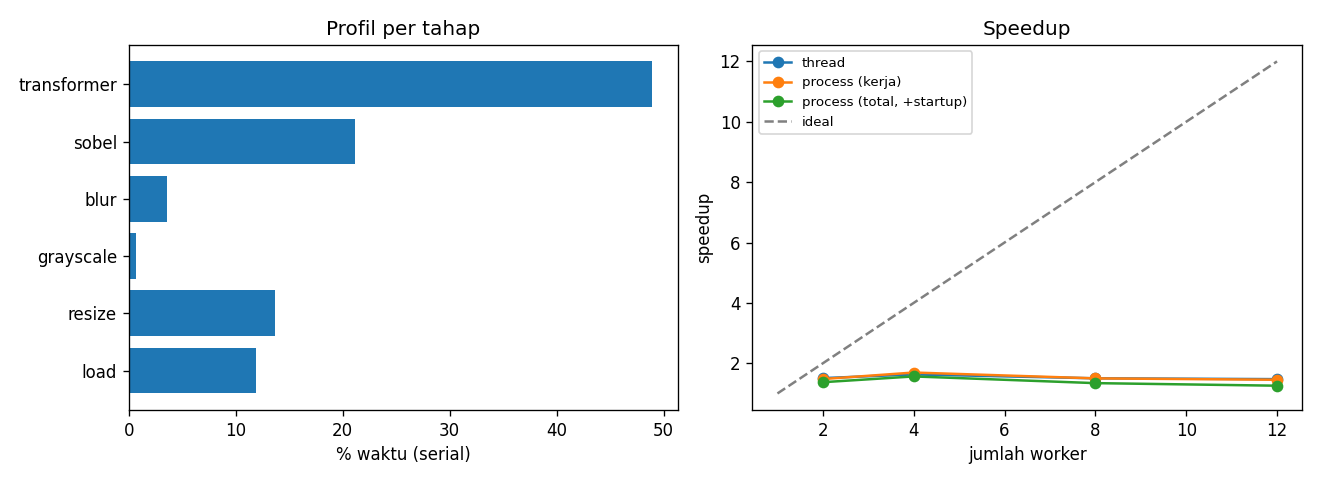
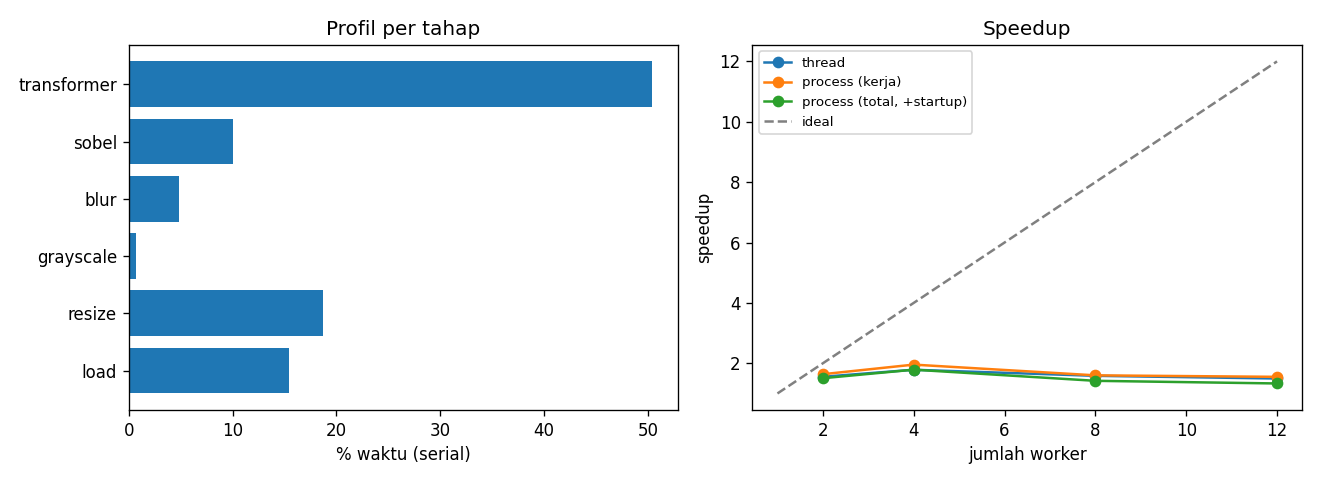
laporan

diff --git a/project.py b/project.py
@@ -40,11 +40,26 @@ def load_image(task):
     return Image.open(src).convert("RGB")
 
 # ======================= TAHAP PIPELINE =======================
-def sobel(gray):
+def sobel_lama(gray):
+    """Versi awal: banyak array sementara -> berat di memori (disimpan untuk perbandingan)."""
     a = gray.astype(np.float32)
     gx = (a[:-2, 2:] + 2*a[1:-1, 2:] + a[2:, 2:]) - (a[:-2, :-2] + 2*a[1:-1, :-2] + a[2:, :-2])
     gy = (a[2:, :-2] + 2*a[2:, 1:-1] + a[2:, 2:]) - (a[:-2, :-2] + 2*a[:-2, 1:-1] + a[:-2, 2:])
     return np.hypot(gx, gy)
+
+def sobel(gray):
+    """Versi hemat memori: bentuk separable + operasi in-place.
+    Sobel-x = haluskan vertikal [1,2,1] lalu selisih horizontal [1,0,-1]
+    Sobel-y = selisih vertikal  [1,0,-1] lalu haluskan horizontal [1,2,1]
+    Hasil sama dengan sobel_lama, tetapi hanya ~4 array sementara (bukan ~20)."""
+    a = gray.astype(np.float32)
+    mid = a[1:-1]
+    s = a[:-2] + a[2:]; s += mid; s += mid          # haluskan vertikal
+    d = a[2:] - a[:-2]                              # selisih vertikal
+    gx = s[:, 2:] - s[:, :-2]
+    gy = d[:, :-2] + d[:, 2:]; gy += d[:, 1:-1]; gy += d[:, 1:-1]
+    gx *= gx; gy *= gy; gx += gy
+    return np.sqrt(gx, out=gx)
 
 D, HEADS, PATCH, LAYERS = 128, 4, 8, 2
 _rng = np.random.default_rng(42)              # bobot tetap & sama di semua proses

diff --git a/LAPORAN.md b/LAPORAN.md
@@ -1,104 +1,234 @@
 # Optimasi Pipeline Pengolahan Gambar dengan Pemrosesan Paralel
 
 ## 1. Latar Belakang dan Tujuan
-Pengolahan gambar melibatkan jutaan operasi independen (piksel, blok, file). Sifat ini cocok untuk paralelisasi.
-Proyek ini membangun pipeline **serial**, menganalisa bagian yang bisa dioptimalkan, lalu **memparalelkannya** dan mengukur hasilnya.
+Pengolahan gambar melibatkan banyak operasi independen (piksel, blok, file), sehingga cocok untuk paralelisasi.
+Proyek ini membangun pipeline **serial**, menganalisa bagian yang bisa dioptimalkan, memparalelkannya, lalu mengukur dan menjelaskan hasilnya.
 
 **Tujuan:**
 1. Membuat pipeline pengolahan gambar yang benar (serial).
 2. Memprofil tiap tahap untuk menemukan bottleneck.
 3. Memparalelkan dengan thread dan proses, lalu membandingkannya.
-4. Menganalisa speedup, efisiensi, dan batasnya.
+4. Menganalisa speedup, efisiensi, dan penyebab batasnya.
+5. Memperbaiki bottleneck yang ditemukan dan mengukur dampaknya.
 
-## 2. Data
-- **Sintetis:** gambar acak berupa array byte mentah (data biner), dibuat dari seed sehingga hasilnya reproducible dan tidak perlu dataset.
-- **Asli:** folder berisi jpg/png (`--folder ./gambar`).
+## 2. Lingkungan Uji
+| Item | Nilai |
+|------|-------|
+| Sistem operasi | Windows |
+| Python | 3.9 |
+| Jumlah core terdeteksi | 12 (logis) |
+| Library | numpy, Pillow, matplotlib |
+| Data | 400 gambar sintetis 1024x1024 (byte acak, dibuat dari seed) |
+
+Data dibuat di dalam program dari seed tetap, sehingga hasilnya reproducible dan tidak membutuhkan dataset. Tiap gambar berupa array byte mentah (data biner) berukuran 1024x1024x3.
 
 ## 3. Pipeline (per gambar)
 | # | Tahap | Sifat |
 |---|-------|-------|
-| 1 | Load/generate | I/O atau memori |
+| 1 | Load/generate | Memori |
 | 2 | Resize ke 512x512 | CPU-bound |
 | 3 | Grayscale | CPU-bound, ringan |
 | 4 | Gaussian blur | CPU-bound (konvolusi) |
-| 5 | Sobel (deteksi tepi) | CPU-bound (numpy) |
+| 5 | Sobel (deteksi tepi) | CPU dan memori (numpy) |
 | 6 | **Transformer mini** | CPU-bound berat (perkalian matriks) |
 
 **Tahap transformer:** peta tepi diubah menjadi 256 patch (8x8 piksel), di-embed ke dimensi 128, lalu melewati 2 layer *encoder* (multi-head self-attention + MLP). Bobotnya acak dan tetap. Tujuannya bukan akurasi, tetapi meniru **beban komputasi** model transformer sungguhan. Untuk model asli (misalnya ViT), tahap ini bisa diganti tanpa mengubah struktur paralelnya.
+
+Hasil akhir tiap gambar adalah satu angka (rata-rata keluaran transformer). Angka ini dipakai sebagai *sidik jari* untuk memastikan hasil paralel sama dengan serial.
 
 ## 4. Analisa Paralelisme
 **Jenis:** *data parallelism*. Operasi yang sama dijalankan pada data berbeda (gambar berbeda).
 
 **Dependensi:**
-- **Antar gambar:** tidak ada, jadi paralel sempurna (*embarrassingly parallel*).
-- **Antar tahap dalam satu gambar:** berurutan (output tahap N adalah input tahap N+1), jadi tidak bisa diparalelkan antar tahap tanpa teknik pipelining.
+- Antar gambar: tidak ada, sehingga paralel sempurna (*embarrassingly parallel*).
+- Antar tahap dalam satu gambar: berurutan (output tahap N menjadi input tahap N+1).
 
 **Thread vs proses di Python:**
-- *Thread* berbagi memori tetapi dibatasi **GIL**, sehingga kode Python murni tidak berjalan benar-benar paralel. Numpy dan PIL melepas GIL pada sebagian operasi, jadi hasil thread bisa lumayan, tetapi biasanya di bawah proses.
-- *Proses* punya interpreter sendiri, sehingga paralel sungguhan. Biayanya lebih besar: pembuatan proses dan serialisasi data (pickle).
+- *Thread* berbagi memori tetapi dibatasi **GIL** untuk kode Python murni. Numpy dan Pillow melepas GIL pada operasi beratnya, jadi thread tetap bisa berjalan paralel di bagian itu.
+- *Proses* punya interpreter sendiri sehingga tidak terkena GIL, tetapi ada biaya pembuatan proses (startup) dan serialisasi data.
 
-**Keputusan desain dan alasannya:**
+**Keputusan desain:**
 | Keputusan | Alasan |
 |-----------|--------|
-| Gambar dibuat/dimuat **di dalam worker** | Menghindari pengiriman array besar antar-proses |
+| Gambar dibuat di dalam worker | Menghindari pengiriman array besar antar-proses |
 | `chunksize` diatur | Mengurangi overhead komunikasi tiap tugas |
 | `OMP_NUM_THREADS=1` | Mencegah *oversubscription*: numpy memakai banyak thread di dalam tiap proses sehingga core berebut |
 | Waktu terbaik dari beberapa ulangan | Mengurangi noise sistem |
+| Startup pool diukur terpisah | Memisahkan biaya sekali bayar dari waktu kerja murni |
 | Verifikasi `allclose(serial, paralel)` | Memastikan paralelisasi tidak mengubah hasil |
 
 ## 5. Metrik
-- **Speedup** `S = T_serial / T_paralel`
+- **Speedup** `S = T_serial / T_paralel`. Dilaporkan dua versi: `spd_kerja` (pool sudah hidup) dan `spd_total` (termasuk startup).
 - **Efisiensi** `E = S / p` (p = jumlah worker). Ideal = 1.
-- **Hukum Amdahl:** `S_maks = 1 / (f + (1 - f)/p)`, dengan f = fraksi yang tetap serial. Berapa pun core-nya, `S` tidak melebihi `1/f`.
-- **Karp-Flatt:** `f = (1/S - 1/p) / (1 - 1/p)`. Ini fraksi serial yang *terukur*. Jika nilainya naik seiring p, penyebabnya overhead (komunikasi, startup, berebut memori), bukan bagian serial bawaan.
+- **Hukum Amdahl:** `S_maks = 1 / (f + (1 - f)/p)`, dengan f = fraksi serial.
+- **Karp-Flatt:** `f = (1/S - 1/p) / (1 - 1/p)`. Fraksi serial eksperimental. Jika naik seiring p, penyebabnya overhead, bukan bagian serial bawaan.
+- **Titik impas:** jumlah gambar minimum agar total waktu paralel (termasuk startup) lebih kecil dari serial.
 
 ## 6. Cara Menjalankan
 ```bash
 pip install numpy pillow matplotlib
-python project.py                          # data sintetis
-python project.py --n 120 --size 1024 --repeat 3
-python project.py --folder ./gambar        # gambar asli
+python project.py --n 400 --size 1024 --repeat 3   # benchmark utama
+python diagnostik.py                               # uji kemampuan paralel CPU (beban murni hitung)
+python diagnostik_tahap.py                         # uji scaling per tahap pipeline
 ```
-Keluaran: tabel di terminal, `results.csv`, `stage_profile.csv`, dan `results.png`.
+Keluaran `project.py`: tabel di terminal, `results.csv`, `stage_profile.csv`, dan `results.png`.
 
-## 7. Hasil Awal (diisi dari mesinmu)
-Hasil profil dari satu uji coba (1 core, 20 gambar 768px), hanya untuk gambaran:
+## 7. Hasil Eksperimen
+
+### 7.1 Benchmark awal (sebelum perbaikan)
+Profil per tahap (serial):
 
 | Tahap | % waktu |
 |-------|---------|
-| transformer | ~45% |
-| resize | ~23% |
-| sobel | ~11% |
-| load | ~11% |
-| blur | ~9% |
-| grayscale | ~1% |
+| transformer | 48,9 |
+| sobel | 21,2 |
+| resize | 13,7 |
+| load | 11,9 |
+| blur | 3,6 |
+| grayscale | 0,7 |
 
-Transformer menjadi bottleneck terbesar, jadi tahap ini yang paling berpengaruh bila dioptimalkan lebih lanjut.
+Benchmark 400 gambar (serial 21,02 s):
 
-**Tabel speedup (isi dari hasil `results.csv` di mesinmu):**
+| Mode | Worker | Startup (s) | Kerja (s) | Total (s) | Speedup kerja | Speedup total | Efisiensi | Karp-Flatt |
+|------|--------|-------------|-----------|-----------|---------------|---------------|-----------|------------|
+| thread | 2 | - | 13,94 | 13,94 | 1,51 | 1,51 | 0,75 | 0,326 |
+| thread | 4 | - | 12,89 | 12,89 | 1,63 | 1,63 | 0,41 | 0,484 |
+| thread | 8 | - | 13,99 | 13,99 | 1,50 | 1,50 | 0,19 | 0,618 |
+| thread | 12 | - | 14,26 | 14,26 | 1,48 | 1,48 | 0,12 | 0,649 |
+| proses | 2 | 1,09 | 14,23 | 15,31 | 1,48 | 1,37 | 0,74 | 0,353 |
+| proses | 4 | 1,02 | 12,42 | 13,44 | 1,69 | 1,56 | 0,42 | 0,454 |
+| proses | 8 | 1,64 | 14,02 | 15,66 | 1,50 | 1,34 | 0,19 | 0,619 |
+| proses | 12 | 2,27 | 14,45 | 16,72 | 1,45 | 1,26 | 0,12 | 0,659 |
 
-| Mode | Worker | Waktu (s) | Speedup | Efisiensi |
-|------|--------|-----------|---------|-----------|
-| serial | 1 | | 1.00 | 1.00 |
-| thread | 2 / 4 / 8 | | | |
-| process | 2 / 4 / 8 | | | |
+Semua baris menghasilkan keluaran yang sama dengan serial (`benar = True`).
 
-## 8. Pembahasan (panduan menulis kesimpulan)
-Setelah mendapat angkanya, jawab pertanyaan berikut:
-1. Mana yang lebih cepat, thread atau proses? Mengapa (GIL)?
-2. Apakah speedup mendekati linear? Di worker berapa mulai melandai?
-3. Bagaimana efisiensi berubah saat worker bertambah? Apa penyebabnya (overhead, jumlah core fisik vs logis, memory bandwidth)?
-4. Bagaimana nilai Karp-Flatt? Stabil berarti ada bagian serial bawaan, naik berarti overhead.
-5. Pada ukuran data kecil, apakah paralel justru lebih lambat? (Cobalah `--n 4`.)
-6. Tahap mana yang paling berat dan bagaimana dampaknya bila dioptimalkan?
+**Temuan:** speedup mentok di sekitar 1,7x dan **turun** saat worker ditambah. Startup proses di Windows naik dari 1,0 s (4 worker) menjadi 2,3 s (12 worker).
 
-## 9. Pengembangan Lanjutan
-- Ganti transformer mini dengan **ViT asli** (PyTorch/HuggingFace) dan jalankan di GPU. Dengan GPU, paralelisasi pindah ke dalam batch (batching beberapa gambar sekaligus).
+### 7.2 Tes diagnostik: batas perangkat keras
+`diagnostik.py` menjalankan beban murni hitung (tanpa gambar, tanpa memori besar). Hasil dua kali jalan:
+
+| Worker | Speedup | Efisiensi |
+|--------|---------|-----------|
+| 2 | 1,85 / 1,95 | 0,93 / 0,98 |
+| 4 | 3,07 / 3,15 | 0,77 / 0,79 |
+| 6 | 3,53 / 3,89 | 0,59 / 0,65 |
+| 8 | 3,99 / 4,01 | 0,50 / 0,50 |
+| 12 | 4,07 / 4,07 | 0,34 / 0,34 |
+
+**Temuan:** laptop mampu sekitar **4x** dan tidak naik lagi setelah 8 worker. Ini ciri CPU dengan core campuran atau hyperthreading, ditambah batas daya, sehingga "12 core" tidak sama dengan 12x. Pipeline gambar hanya mencapai 1,7x, jadi ada selisih yang hilang di dalam pipeline sendiri.
+
+### 7.3 Tes diagnostik per tahap: mencari bottleneck
+`diagnostik_tahap.py` memotong pipeline secara kumulatif dan mengukur speedup paralel di tiap potongan (96 gambar). Speedup kumulatif sebelum perbaikan (dua kali jalan):
+
+| Sampai tahap | spd@4 | spd@8 |
+|--------------|-------|-------|
+| 1. load | 1,82 / 1,83 | 2,01 / 1,62 |
+| 2. resize | 2,54 / 2,60 | 2,71 / 2,52 |
+| 3. grayscale | 2,65 / 2,56 | 2,85 / 2,84 |
+| 4. blur | 2,99 / 2,79 | 3,25 / 3,25 |
+| **5. sobel** | **2,12 / 1,95** | **1,85 / 1,75** |
+| 6. transformer | 2,17 / 1,89 | 1,78 / 1,24 |
+
+**Temuan:** speedup tumbuh wajar sampai blur (sekitar 3x, sesuai batas laptop), lalu **jatuh tepat di tahap sobel**. Kontribusi sobel sendiri (dihitung dari selisih waktu antar baris) hanya sekitar 1,1x di 4 worker dan sekitar 0,8x di 8 worker, artinya hampir tidak ikut terparalel dan di 8 worker malah lebih lambat dari serial.
+
+**Dugaan penyebab:** sobel versi awal membuat banyak array sementara (sekitar 1 MB per array, puluhan operasi per gambar), sehingga beban bandwidth memori tinggi. Beban seperti ini cepat jenuh ketika banyak core mengakses RAM bersamaan. Hal ini konsisten dengan kontras dua tes: beban murni hitung scaling sampai 4x, sedangkan beban yang memakai memori puncaknya di 4 worker lalu turun. Ini masih dugaan yang didukung bukti tidak langsung, belum dibuktikan dengan alat profil perangkat keras.
+
+### 7.4 Perbaikan: sobel hemat memori
+Fungsi `sobel` ditulis ulang dalam bentuk *separable* dengan operasi in-place (sekitar 4 array sementara, dibanding sekitar 20). Versi lama disimpan sebagai `sobel_lama`.
+- Hasil numerik sama dengan versi lama (`allclose = True`).
+- Mikro-benchmark serial (512x512): 2,91 ms menjadi 1,90 ms per gambar.
+- Waktu sobel di profil pipeline: 0,135-0,174 s menjadi 0,057 s per 10 gambar.
+
+### 7.5 Hasil akhir (sesudah perbaikan)
+Profil per tahap (serial):
+
+| Tahap | % waktu |
+|-------|---------|
+| transformer | 50,4 |
+| resize | 18,7 |
+| load | 15,4 |
+| sobel | 10,0 |
+| blur | 4,8 |
+| grayscale | 0,7 |
+
+Benchmark 400 gambar (serial 19,88 s):
+
+| Mode | Worker | Startup (s) | Kerja (s) | Total (s) | Speedup kerja | Speedup total | Efisiensi | Karp-Flatt |
+|------|--------|-------------|-----------|-----------|---------------|---------------|-----------|------------|
+| thread | 2 | - | 12,80 | 12,80 | 1,55 | 1,55 | 0,78 | 0,288 |
+| thread | 4 | - | 11,14 | 11,14 | 1,78 | 1,78 | 0,45 | 0,414 |
+| thread | 8 | - | 12,55 | 12,55 | 1,58 | 1,58 | 0,20 | 0,578 |
+| thread | 12 | - | 13,29 | 13,29 | 1,50 | 1,50 | 0,12 | 0,638 |
+| proses | 2 | 1,07 | 12,14 | 13,21 | 1,64 | 1,50 | 0,82 | 0,221 |
+| proses | 4 | 0,95 | 10,17 | 11,12 | 1,96 | 1,79 | 0,49 | 0,348 |
+| proses | 8 | 1,59 | 12,43 | 14,01 | 1,60 | 1,42 | 0,20 | 0,571 |
+| proses | 12 | 2,11 | 12,82 | 14,94 | 1,55 | 1,33 | 0,13 | 0,613 |
+
+Titik impas proses: 55 gambar (2 worker), 39 (4 worker), 85 (8 worker), 120 (12 worker).
+
+Tes per tahap sesudah perbaikan:
+
+| Sampai tahap | spd@4 | spd@8 |
+|--------------|-------|-------|
+| 4. blur | 2,79 | 3,12 |
+| 5. sobel | 2,23 | 1,90 |
+| 6. transformer | 2,23 | 1,83 |
+
+### 7.6 Perbandingan sebelum dan sesudah
+| | Sebelum | Sesudah |
+|---|---------|---------|
+| Sobel (profil serial) | 0,135-0,174 s | 0,057 s |
+| Porsi sobel di pipeline | 18-21% | 10% |
+| Serial, 400 gambar | 21,0-22,1 s | 19,9 s |
+| Proses 4 worker, waktu kerja | 12,3-12,4 s | 10,2 s |
+| Speedup proses 4 worker | 1,69-1,79x | 1,96x |
+| Titik impas 4 worker | 48-50 gambar | 39 gambar |
+
+Dibanding serial awal (21,0 s), hasil terbaik sekarang (10,2 s) sekitar **2,1x lebih cepat**. Angka ini gabungan dua hal: sobel yang lebih efisien dan paralelisasi.
+
+## 8. Pembahasan
+**1. Thread atau proses?**
+Hasilnya hampir sama. Pada 4 worker, proses 1,96x dan thread 1,78x (waktu kerja). Pada 8 dan 12 worker keduanya sekitar 1,5 sampai 1,6x. Thread tidak jauh tertinggal karena numpy dan Pillow melepas GIL pada operasi beratnya, dan thread tidak memiliki biaya startup. Proses sedikit lebih baik di 2 dan 4 worker. Jadi GIL bukan penyebab utama terbatasnya speedup pada pipeline ini.
+
+**2. Apakah speedup mendekati linear?**
+Tidak. Puncaknya di 4 worker (1,96x), lalu melandai bahkan turun di 8 dan 12 worker.
+
+**3. Bagaimana efisiensi berubah?**
+Turun dari 0,82 (2 worker) menjadi 0,49 (4), 0,20 (8), dan 0,13 (12). Penyebabnya adalah gabungan: batas perangkat keras laptop sekitar 4x (core campuran/hyperthreading dan batas daya, terlihat pada tes diagnostik), rebutan memori, dan overhead startup proses di Windows.
+
+**4. Bagaimana nilai Karp-Flatt?**
+Naik seiring worker (proses: 0,22 menjadi 0,61). Karena fraksi serial bawaan seharusnya konstan, kenaikan ini menunjukkan **overhead dan rebutan sumber daya**, bukan sekadar bagian program yang tidak bisa diparalelkan.
+
+**5. Apakah paralel bisa lebih lambat pada data kecil?**
+Ya, dan ini terukur lewat titik impas. Proses baru mengalahkan serial setelah 39 gambar (4 worker) sampai 120 gambar (12 worker). Di bawah jumlah itu, biaya startup (1 sampai 2 detik di Windows) lebih besar dari penghematan waktunya. Titik impas naik seiring jumlah worker karena startup makin mahal.
+
+**6. Tahap mana yang paling berat dan apa dampaknya bila dioptimalkan?**
+Transformer, sekitar 50% waktu serial. Pada tes per tahap, kontribusi transformer terhadap speedup juga sedang saja (sekitar 2x). Optimasi sobel membuktikan bahwa memperbaiki satu tahap bisa mengubah hasil keseluruhan (1,7x menjadi 2x pada 4 worker), tetapi perbaikan berikutnya akan memberi dampak yang makin kecil.
+
+## 9. Keterbatasan
+- **Variasi antar-run** sekitar 5 sampai 10% (waktu serial 19,9 sampai 22,1 s pada run berbeda). Selisih kecil, terutama pada thread, tidak boleh dibaca sebagai klaim kuat.
+- **Penyebab keterbatasan scaling** (memori, cache, core campuran) adalah kesimpulan dari bukti tidak langsung. Pembuktian pasti membutuhkan alat profil perangkat keras.
+- Perbaikan sobel hanya **sebagian** menutup selisih speedup: pada tes per tahap, speedup di sobel masih turun (2,79 menjadi 2,23 pada 4 worker), jadi sobel bukan satu-satunya penyebab.
+- Data sintetis dibuat di memori. Dengan gambar yang dibaca dari disk, tahap load menjadi lebih berat dan angkanya bisa berbeda.
+- Transformer memakai bobot acak, jadi pengujian hanya mengukur beban komputasi, bukan akurasi model.
+
+## 10. Pengembangan Lanjutan
+- Ganti transformer mini dengan **ViT asli** (PyTorch/HuggingFace) dan jalankan di GPU. Paralelisasi pindah ke dalam batch.
+- **Tiling:** proses sobel per blok baris agar muat di cache.
 - **Pipelining:** tahap 1-5 (CPU) dan tahap 6 (GPU) berjalan bersamaan dengan antrean (producer-consumer).
-- Bandingkan dengan `concurrent.futures.ProcessPoolExecutor`, `joblib`, atau `numba`.
 - Uji **strong scaling** (data tetap, worker bertambah) dan **weak scaling** (data tumbuh seiring worker).
+- Bandingkan dengan `joblib`, `numba`, atau `ProcessPoolExecutor`.
 
-## 10. Rangkuman untuk Presentasi
-- **Konsep:** pipeline gambar serial dipercepat dengan data parallelism.
-- **Kajian paralel:** independen antar gambar (cocok untuk proses), berurutan antar tahap, kendala GIL dan overhead.
-- **Progres:** kode serial + thread + proses, profiling, benchmark otomatis, verifikasi kebenaran.
+## 11. Kesimpulan
+1. Pipeline pengolahan gambar bersifat *embarrassingly parallel* antar gambar, dan versi paralel menghasilkan keluaran yang sama dengan serial.
+2. Pada laptop 12 core ini, speedup maksimum yang diukur pada beban murni hitung sekitar **4x**, sedangkan pipeline awal hanya mencapai **1,7x**.
+3. Tes per tahap menunjukkan bahwa tahap **sobel** menghambat scaling. Penulisan ulang yang hemat memori mempercepat sobel serial sekitar 2,4 sampai 3x dan menaikkan speedup proses 4 worker dari 1,7x menjadi 2,0x.
+4. Total waktu terbaik turun dari 21,0 s (serial awal) menjadi 10,2 s, sekitar **2,1x lebih cepat**.
+5. Menambah worker di atas 4 tidak membantu dan justru menurunkan hasil. Startup proses di Windows (1 sampai 2,3 detik) menentukan jumlah data minimum agar paralel berguna (39 sampai 120 gambar).
+6. Proses dan thread hampir setara pada pipeline ini karena numpy dan Pillow melepas GIL.
+
+## 12. Rangkuman untuk Presentasi
+- **Konsep:** pipeline gambar serial dipercepat dengan data parallelism, diuji dengan thread dan proses.
+- **Kajian paralel:** independen antar gambar, berurutan antar tahap; hambatan berupa GIL (kecil), overhead startup, dan rebutan memori (dugaan terkuat).
+- **Alur analisa:** benchmark awal (1,7x) -> diagnostik perangkat keras (batas 4x) -> diagnostik per tahap (sobel) -> perbaikan -> hasil 2,1x.
+- **Pelajaran utama:** angka speedup rendah bukan berarti kode salah; ukur, cari tahap yang menghambat, perbaiki, lalu ukur lagi.
